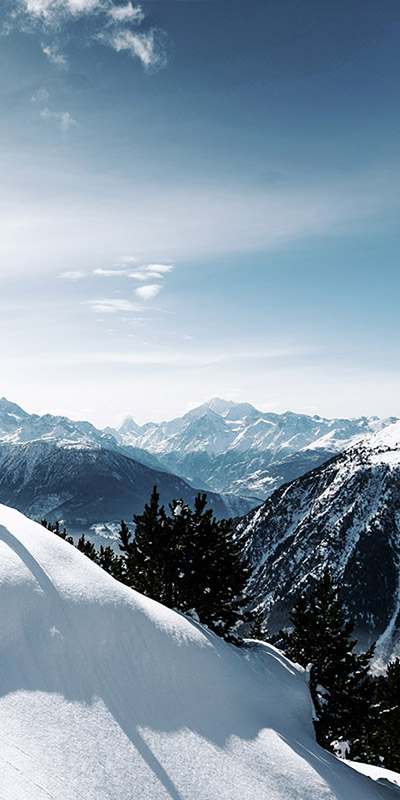
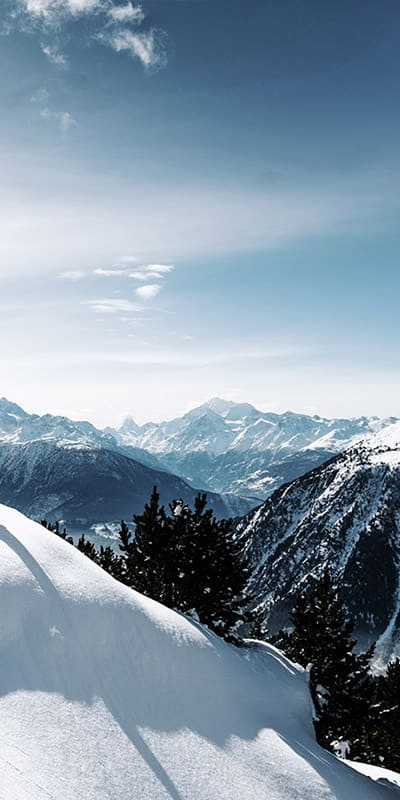
.

Changed region(s): [[0.78, 0.5938, 0.84, 0.6562], [0.84, 0.5625, 0.87, 0.5938], [0.63, 0.625, 0.66, 0.6562]]

diff --git a/src/app/routes/externo/landing-page/landing-page.component.css b/src/app/routes/externo/landing-page/landing-page.component.css
@@ -128,7 +128,7 @@ body {
       rgba(var(--externo-color-2-R), var(--externo-color-2-G), var(--externo-color-2-B), .8) 25%,
       rgba(var(--externo-color-2-R), var(--externo-color-2-G), var(--externo-color-2-B), .3) 50%,
       rgba(var(--externo-color-2-R), var(--externo-color-2-G), var(--externo-color-2-B), 1) 100%),
-    url("/assets/img/landing-1.png");
+    url("/assets/img/landing-1.jpg");
   background-position: center;
   background-repeat: no-repeat;
   background-attachment: scroll;
